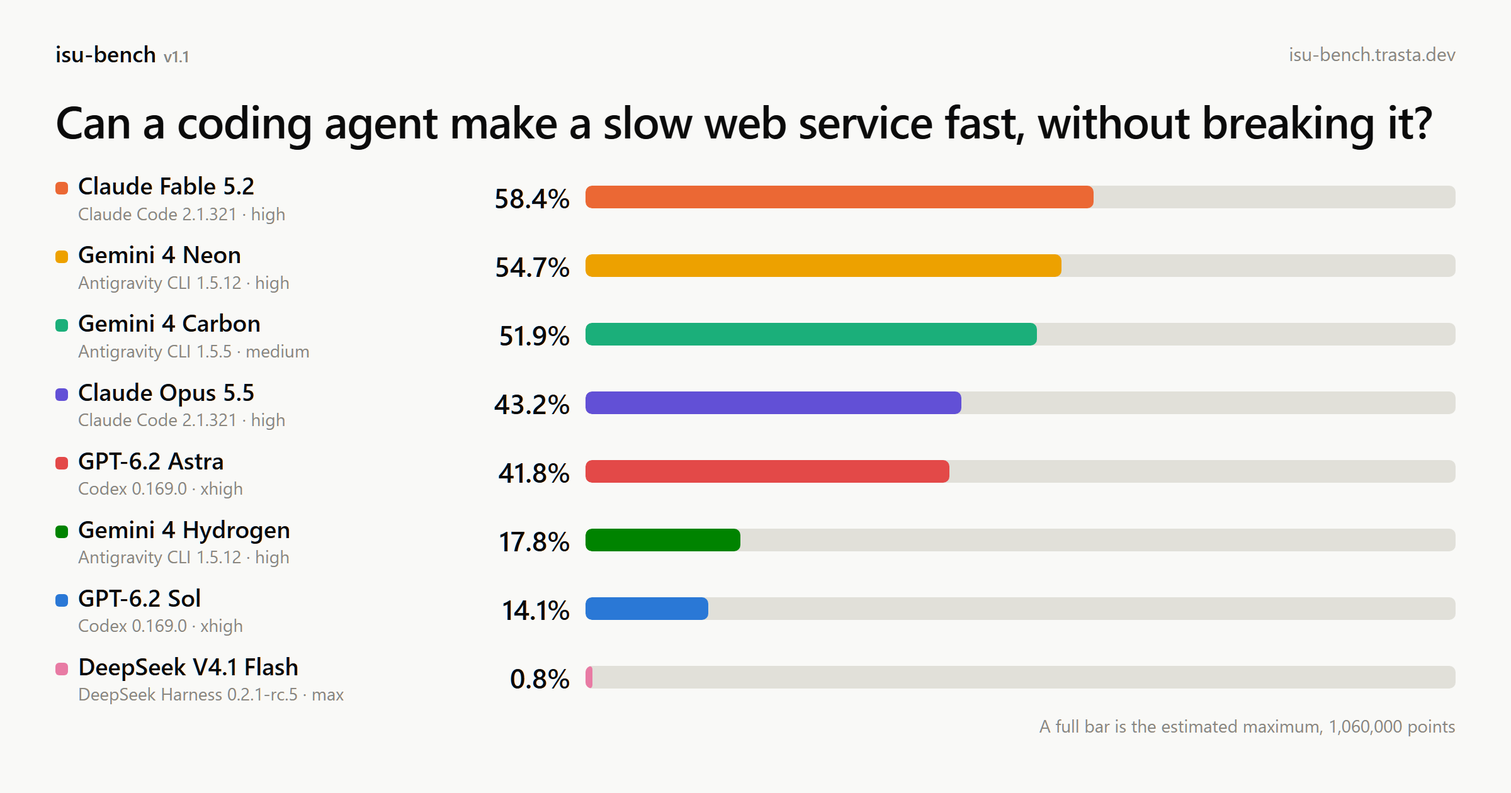
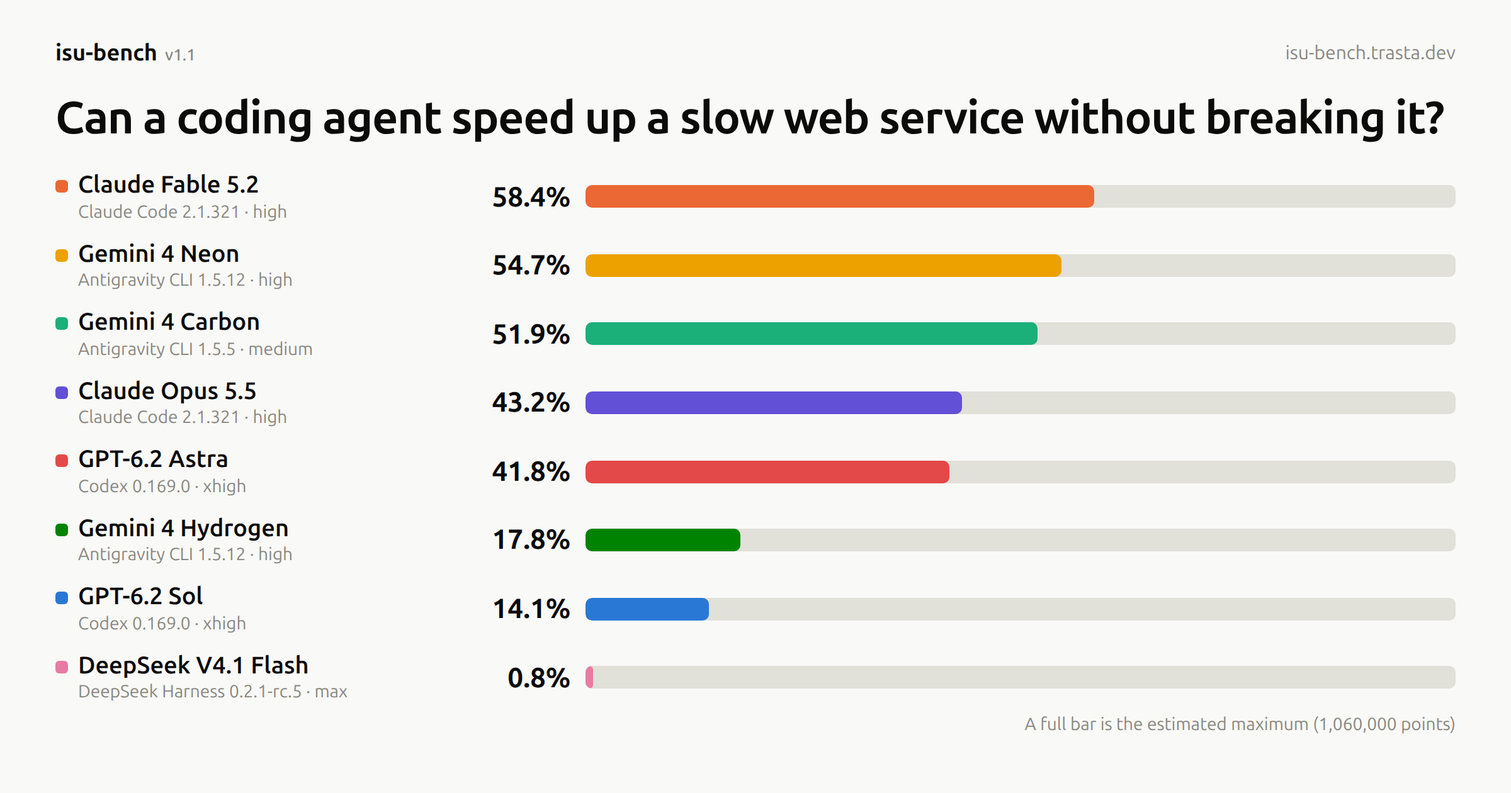
📝 docs: polish English phrasing in README and site

diff --git a/isubench/site.html b/isubench/site.html
@@ -4,9 +4,9 @@
 <meta charset="utf-8">
 <meta name="viewport" content="width=device-width, initial-scale=1">
 <title>isu-bench</title>
-<meta name="description" content="A benchmark for coding agents: make a slow web service on three servers as fast as possible without breaking it, with {RUNS} load tests.">
+<meta name="description" content="A benchmark for coding agents: optimize a slow web service across three servers without breaking it, within a budget of {RUNS} load tests.">
 <meta property="og:title" content="isu-bench">
-<meta property="og:description" content="Can a coding agent make a slow web service fast, without breaking it? One unseen service, three servers, {RUNS} load tests.">
+<meta property="og:description" content="Can a coding agent speed up a slow web service without breaking it? One unseen service, three servers, and {RUNS} load tests.">
 <meta property="og:type" content="website">
 <meta property="og:url" content="https://isu-bench.trasta.dev/">
 <meta property="og:image" content="https://isu-bench.trasta.dev/og.png">
@@ -145,7 +145,7 @@ footer p:nth-child(n+3) { font-size: 13px; color: var(--muted); }
 .figure .card { border: 0; padding: 0; margin: 0; background: none; }
 .figure :is(.top button, .top a, .card h2, .card .note, #chart, .details, .prose, footer) { display: none; }
 .figure .scroll { margin: 0; }
-.figure .scroll::after { content: "A full bar is the estimated maximum, {WINNER} points"; display: block; text-align: right; font-size: 14px; color: var(--muted); }
+.figure .scroll::after { content: "A full bar is the estimated maximum ({WINNER} points)"; display: block; text-align: right; font-size: 14px; color: var(--muted); }
 .figure:lang(ja) .scroll::after { content: "バーの右端が理論上の上限の見積もり（{WINNER}点）"; }
 .figure #board :is(tr:first-child, tr.off, td:first-child, td:nth-child(n+4)) { display: none; }
 .figure #board td { font-size: 19px; padding: 8px 0; border: 0; }
@@ -166,9 +166,9 @@ footer p:nth-child(n+3) { font-size: 13px; color: var(--muted); }
   </div>
 
   <header>
-    <h1 lang="en">Can a coding agent make a slow web service fast, without breaking it?</h1>
+    <h1 lang="en">Can a coding agent speed up a slow web service without breaking it?</h1>
     <h1 lang="ja">遅いWebサービスを、壊さずにどこまで速くできるか</h1>
-    <p class="lead" lang="en">isu-bench hands an agent a web service it has never seen, the three servers it runs on, and {RUNS} load tests. There is no time limit, no hint and no one to ask. The {RUNS}th load test is its score.</p>
+    <p class="lead" lang="en">isu-bench gives a coding agent an unfamiliar web service, the three servers it runs on, and a budget of {RUNS} load tests. There is no time limit, and the agent gets no hints or outside help. The {RUNS}th load test determines the final score.</p>
     <p class="lead" lang="ja">isu-benchは、コーディングエージェントに初めて見るWebサービスと、それが動く3台のサーバーを渡します。ベンチマークを実行できるのは{RUNS}回だけ。時間制限もヒントもなく、質問できる相手もいません。{RUNS}回目の点がそのままスコアになります。</p>
   </header>
 
@@ -176,7 +176,7 @@ footer p:nth-child(n+3) { font-size: 13px; color: var(--muted); }
     <h2 lang="en">Score over time</h2>
     <h2 lang="ja">経過時間とスコア</h2>
     <svg id="chart" class="plot" role="img"></svg>
-    <p class="note" lang="en">Each dot is one load test, placed at the time it started. The score is the share of the estimated maximum, {WINNER} points; the untouched service scores about {INITIAL}. A hollow dot on the baseline is a failed test, which scores 0.</p>
+    <p class="note" lang="en">Each dot represents one load test, plotted at its start time. Scores are a percentage of the estimated maximum ({WINNER} points); unmodified, the service scores about {INITIAL}. Hollow dots along the 0% line indicate failed runs (0 points).</p>
     <p class="note" lang="ja">点は1回のベンチマークで、開始した時刻の位置にあります。スコアは、理論上の上限の見積もり（{WINNER}点）に対する割合です。手を入れる前のサービスは約{INITIAL}点です。0%の線上にある白抜きの点はFAIL（0点）です。</p>
     <div class="scroll"><table id="board"></table></div>
     <p class="note" id="board-note"></p>
@@ -186,7 +186,7 @@ footer p:nth-child(n+3) { font-size: 13px; color: var(--muted); }
     <h2 lang="en">Detailed results</h2>
     <h2 lang="ja">詳細な結果</h2>
     <div class="card">
-      <h3 lang="en">Score and API cost</h3>
+      <h3 lang="en">Score vs. API cost</h3>
       <h3 lang="ja">スコアとAPI換算の費用</h3>
       <svg id="scatter" class="plot" role="img"></svg>
     </div>
@@ -200,11 +200,11 @@ footer p:nth-child(n+3) { font-size: 13px; color: var(--muted); }
     <h2 lang="en">The task</h2>
     <h2 lang="ja">課題</h2>
     <div lang="en">
-      <p>The agent takes the seat of a contestant in a performance tuning contest. It starts with:</p>
+      <p>The agent competes under the same conditions as a human contestant in a performance tuning contest. It starts with:</p>
       <ul>
-        <li>the specification of ISUMAIL, a newsletter delivery service, written in Japanese</li>
-        <li>a reference implementation in Go and PostgreSQL that works but is slow</li>
-        <li>root access to the three servers it runs on, which differ in CPU and memory</li>
+        <li>a Japanese specification for ISUMAIL, a newsletter delivery service</li>
+        <li>a working but slow reference implementation in Go and PostgreSQL</li>
+        <li>root access to the three servers running it, each with different CPU and memory</li>
       </ul>
     </div>
     <div lang="ja">
@@ -216,20 +216,20 @@ footer p:nth-child(n+3) { font-size: 13px; color: var(--muted); }
       </ul>
     </div>
     <div class="setup">
-      <div class="node"><b lang="en">Coding agent</b><b lang="ja">コーディングエージェント</b><span lang="en">Reads the spec and the code, measures, rewrites, deploys</span><span lang="ja">仕様とコードを読み、計測し、書き換え、配置する</span></div>
+      <div class="node"><b lang="en">Coding agent</b><b lang="ja">コーディングエージェント</b><span lang="en">Reads the spec and code, profiles, rewrites, and deploys</span><span lang="ja">仕様とコードを読み、計測し、書き換え、配置する</span></div>
       <div class="arrow">SSH</div>
       <div class="servers">
         <div class="node"><b>s1</b></div>
         <div class="node"><b>s2</b></div>
         <div class="node"><b>s3</b></div>
-        <span lang="en">each with different CPU and memory</span><span lang="ja">CPUもメモリも1台ずつ違う</span>
+        <span lang="en">different CPU and memory on each</span><span lang="ja">CPUもメモリも1台ずつ違う</span>
       </div>
       <div class="arrow back"><span lang="en">user traffic</span><span lang="ja">利用者の操作</span></div>
-      <div class="node"><b lang="en">Load test</b><b lang="ja">ベンチマーカー</b><span lang="en">70 seconds of publishers and readers, then a score or a FAIL</span><span lang="ja">発行者と読者の操作を70秒間送り、点かFAILを返す</span></div>
+      <div class="node"><b lang="en">Load test</b><b lang="ja">ベンチマーカー</b><span lang="en">70 seconds of simulated publisher and reader traffic; returns a score or FAIL</span><span lang="ja">発行者と読者の操作を70秒間送り、点かFAILを返す</span></div>
     </div>
     <div lang="en">
-      <p><strong>Anything may change</strong>: queries and indexes, caching, the architecture, the language, the database, which server does what. The only condition is that the service keeps behaving as the specification says.</p>
-      <p>A load test plays the users. Publishers schedule issues, which must reach every subscriber before a deadline; readers open, click, share and subscribe. The score counts the mail delivered in time and the activity that succeeded. Inconsistent data fails the test.</p>
+      <p><strong>The agent can change anything</strong>: queries, indexes, caching, architecture, language, database, or how work is split across the servers. The only requirement is that the service continues to follow the specification.</p>
+      <p>Each load test simulates real users. Publishers schedule newsletter issues that must reach every subscriber before a deadline, while readers open, click, share, and subscribe. The score is based on emails delivered on time and successful user actions. Any data inconsistency fails the test.</p>
     </div>
     <div lang="ja">
       <p><strong>何を変えても構いません</strong>。SQLやインデックス、キャッシュ、アーキテクチャ、言語、データベース、サーバーの役割分担まで自由です。条件は、仕様どおりに動き続けることだけです。</p>
@@ -242,10 +242,10 @@ footer p:nth-child(n+3) { font-size: 13px; color: var(--muted); }
     <h2 lang="ja">何を測っているか</h2>
     <table class="compare" lang="en">
       <tr><th></th><th>Test-based coding benchmarks</th><th>isu-bench</th></tr>
-      <tr><td>The work</td><td>Change the code in a repository</td><td>Run a live system: code, database and three servers</td></tr>
-      <tr><td>Done when</td><td>The tests pass</td><td>Never. Every improvement raises the score</td></tr>
-      <tr><td>Feedback</td><td>Run the tests as often as needed</td><td>{RUNS} load tests, and failing the last one scores 0</td></tr>
-      <tr><td>Prior exposure</td><td>Mostly public code</td><td>An unpublished problem, shipped only as machine images</td></tr>
+      <tr><td>Task</td><td>Edit code in a repository</td><td>Optimize a live system: code, database, and three servers</td></tr>
+      <tr><td>Done when</td><td>The tests pass</td><td>Open-ended: every improvement raises the score</td></tr>
+      <tr><td>Feedback</td><td>Run tests as often as needed</td><td>{RUNS} load tests total; failing the last one scores 0</td></tr>
+      <tr><td>Prior exposure</td><td>Mostly public code</td><td>Unpublished problem, distributed only as machine images</td></tr>
     </table>
     <table class="compare" lang="ja">
       <tr><th></th><th>テストで採点するベンチマーク</th><th>isu-bench</th></tr>
@@ -255,13 +255,13 @@ footer p:nth-child(n+3) { font-size: 13px; color: var(--muted); }
       <tr><td>既知かどうか</td><td>多くは公開されているコード</td><td>非公開の問題。マシンイメージでだけ配布</td></tr>
     </table>
     <div lang="en">
-      <p>Doing well takes several skills at once:</p>
+      <p>Doing well requires several skills at once:</p>
       <ul>
         <li>reading an unfamiliar specification and codebase</li>
-        <li>finding the bottleneck by measuring it</li>
-        <li>carrying a large rewrite through without breaking behavior</li>
-        <li>operating servers: deployment, recovery after a reboot, durable data</li>
-        <li>judgment under a budget: when to spend a load test, and when to stop taking risks</li>
+        <li>profiling to find bottlenecks</li>
+        <li>making large rewrites without breaking existing behavior</li>
+        <li>server operations: deployment, reboot recovery, and data durability</li>
+        <li>managing a limited budget: deciding when to run a load test and when to stop taking risks</li>
       </ul>
     </div>
     <div lang="ja">
@@ -280,8 +280,8 @@ footer p:nth-child(n+3) { font-size: 13px; color: var(--muted); }
     <h2 lang="en">Where the format comes from</h2>
     <h2 lang="ja">ISUCONについて</h2>
     <div lang="en">
-      <p>The format is borrowed from <a href="https://isucon.net/">ISUCON</a> (<i>Iikanji ni Speed Up Contest</i>, roughly "speed it up nicely"), a web performance tuning contest held in Japan since 2011. Teams of up to three engineers get the same deal: an unfamiliar slow service, a few servers and eight hours. The highest score at the end wins.</p>
-      <p>Past ISUCON problems and their solutions are public, so a model may have seen them solved. isu-bench is therefore scored on ISUMAIL, a problem in the same style written for it. Its source is not published and it ships only as machine images.</p>
+      <p>The format is modeled after <a href="https://isucon.net/">ISUCON</a> (<i>Iikanji ni Speed Up Contest</i>, roughly "speed it up nicely"), a web performance tuning contest held in Japan since 2011. Teams of up to three engineers face the same challenge: an unfamiliar slow service, a few servers, and eight hours. The highest score at the end wins.</p>
+      <p>Because past ISUCON problems and their solutions are public, models may have seen them during training. Instead, isu-bench scores agents on ISUMAIL, a new problem written specifically for this benchmark in the same style. Its source code is unpublished, and it is distributed only as machine images.</p>
     </div>
     <div lang="ja">
       <p>課題の形式は<a href="https://isucon.net/">ISUCON</a>にならっています。ISUCONは2011年から続くWebアプリケーション高速化コンテストで、最大3人のチームが、初めて見る遅いWebサービスと数台のサーバーを渡され、8時間でどこまで速くできるかを競います。</p>
@@ -293,12 +293,12 @@ footer p:nth-child(n+3) { font-size: 13px; color: var(--muted); }
     <h2 lang="en">Scoring and rules</h2>
     <h2 lang="ja">採点とルール</h2>
     <ul lang="en">
-      <li><strong>Score</strong>: the points of the {RUNS}th load test, divided by the estimated maximum of {WINNER}.</li>
-      <li>Every load test counts toward the {RUNS}, failed ones included.</li>
-      <li>After the last one the three servers are rebooted. If the service does not come back with the data written during that test, the score is 0.</li>
-      <li>No time limit. An agent that stops early is told to continue, up to three times.</li>
-      <li>No web access. Search tools are off and the network reaches only the model API, package registries and the servers.</li>
-      <li>One trial per configuration, in Go. A configuration is a model, the agent it runs in and a reasoning effort.</li>
+      <li><strong>Score</strong>: the points from the {RUNS}th load test, divided by the estimated maximum ({WINNER} points).</li>
+      <li>Every load test counts toward the {RUNS}-run limit, including failed runs.</li>
+      <li>After the final load test, all three servers are rebooted. If the service fails to come back up with the data written during that test intact, the score is 0.</li>
+      <li>No time limit. If an agent stops early, it is prompted to continue up to three times.</li>
+      <li>No web access. Search tools are disabled, and network access is restricted to the model API, package registries, and the target servers.</li>
+      <li>One trial per configuration, starting from the Go implementation. Each configuration is a combination of model, agent harness, and reasoning effort.</li>
     </ul>
     <ul lang="ja">
       <li><strong>スコア</strong>: {RUNS}回目のベンチマークの点を、理論上の上限の見積もり（{WINNER}点）で割った値。</li>
@@ -308,7 +308,7 @@ footer p:nth-child(n+3) { font-size: 13px; color: var(--muted); }
       <li>Webは使えません。検索ツールは無効で、通信先はモデルのAPI、パッケージレジストリ、サーバーだけです。</li>
       <li>1構成につき1試行、言語はGo。構成は、モデル、それを動かすエージェント、推論の強さの組み合わせです。</li>
     </ul>
-    <p lang="en">The <a href="https://github.com/trasta298/isu-bench/blob/main/REQUIREMENTS.md">full rules</a>, the <a href="https://github.com/trasta298/isu-bench/blob/main/prompt.md">exact prompt</a> and the harness are in the <a href="https://github.com/trasta298/isu-bench">repository</a>.</p>
+    <p lang="en">The <a href="https://github.com/trasta298/isu-bench/blob/main/REQUIREMENTS.md">full rules</a>, the <a href="https://github.com/trasta298/isu-bench/blob/main/prompt.md">exact prompt</a>, and the harness are available in the <a href="https://github.com/trasta298/isu-bench">repository</a>.</p>
     <p lang="ja"><a href="https://github.com/trasta298/isu-bench/blob/main/REQUIREMENTS.md">ルールの全体</a>、<a href="https://github.com/trasta298/isu-bench/blob/main/prompt.md">プロンプトの原文</a>、ハーネスは<a href="https://github.com/trasta298/isu-bench/blob/main/README.ja.md">リポジトリ</a>にあります。</p>
   </section>
 
@@ -316,9 +316,9 @@ footer p:nth-child(n+3) { font-size: 13px; color: var(--muted); }
     <h2 lang="en">Caveats</h2>
     <h2 lang="ja">注意点</h2>
     <ul lang="en">
-      <li>Each configuration ran once, so the spread between trials is not measured. The untouched service alone varies by about 5% from test to test. Small gaps mean little.</li>
-      <li>Each model runs in its vendor's own agent, so a result belongs to the pair, not to the model alone.</li>
-      <li>The maximum is an estimate of the problem's theoretical limit. Its derivation is withheld together with the source, to keep the problem out of training data.</li>
+      <li>Each configuration was run once, so run-to-run variance is not measured. Even the unmodified service varies by about 5% from run to run. Small score differences are not meaningful.</li>
+      <li>Each model runs in its provider's own agent harness, so results reflect the model-and-agent pair rather than the model alone.</li>
+      <li>The 100% mark is an estimate of the problem's theoretical limit. Like the source code, its derivation is kept private to keep the problem out of training data.</li>
     </ul>
     <ul lang="ja">
       <li>各構成の試行は1回だけで、試行間のばらつきは測っていません。手を入れる前のサービスでも、点は回ごとに5%ほど変わります。小さな差に意味はありません。</li>
@@ -328,9 +328,9 @@ footer p:nth-child(n+3) { font-size: 13px; color: var(--muted); }
   </section>
 
   <footer>
-    <p lang="en">Want another model or agent added? Ask <a href="https://x.com/trasta">@trasta</a> on X. Each configuration ran once because of cost, and <a href="https://github.com/sponsors/trasta298">sponsorship on GitHub</a> goes to more trials and more models.</p>
+    <p lang="en">Want another model or agent added? Reach out to <a href="https://x.com/trasta">@trasta</a> on X. Each configuration was run once due to cost, and <a href="https://github.com/sponsors/trasta298">GitHub Sponsors</a> funding goes toward additional trials and new models.</p>
     <p lang="ja">追加してほしいモデルやエージェントがあれば、Xの<a href="https://x.com/trasta">@trasta</a>まで連絡してください。各構成の試行が1回なのは費用の都合で、<a href="https://github.com/sponsors/trasta298">GitHub Sponsors</a>での支援は試行回数とモデルの追加に充てます。</p>
-    <p lang="en">ISUCON is a trademark or registered trademark of SAKURA internet Inc. (<a href="https://isucon.net">isucon.net</a>) isu-bench is an independent project. It is not run, sponsored or endorsed by the ISUCON organizers or SAKURA internet Inc.</p>
+    <p lang="en">ISUCON is a trademark or registered trademark of SAKURA internet Inc. (<a href="https://isucon.net">isucon.net</a>). isu-bench is an independent project. It is not run, sponsored, or endorsed by the ISUCON organizers or SAKURA internet Inc.</p>
     <p lang="ja">「ISUCON」は、さくらインターネット株式会社の商標または登録商標です。（<a href="https://isucon.net">isucon.net</a>）isu-benchは独立した非公式のプロジェクトです。ISUCONの運営やさくらインターネット株式会社が主催、後援、公認するものではありません。</p>
   </footer>
 </main>
@@ -354,24 +354,24 @@ const color = c => `var(--s${DATA.colors[c]})`;
 const T = {
   en: {
     other: ['日本語', 'ja'],
-    chartLabel: `Score of each load test against the time since the agent started, for ${P.title}`,
-    elapsed: 'Time since the agent started (h:mm)',
+    chartLabel: `Load test scores over elapsed time for ${P.title}`,
+    elapsed: 'Elapsed time (h:mm)',
     max: 'estimated maximum',
     dur: (h, m) => h ? `${h} h ${m} min` : `${m} min`,
     test: (i, n) => `Load test ${i} of ${n}`,
     startedAt: 'Started at',
     score: 'Score',
     points: 'Points',
-    calls: 'Tool calls before it',
-    head: ['', 'Model', 'Score', 'Time', 'API cost', 'Failed tests'],
-    scatterLabel: `Final score against the API cost of the trial, for ${P.title}`,
-    costAxis: 'API cost of the trial (USD, log scale)',
+    calls: 'Tool calls before this run',
+    head: ['', 'Model', 'Score', 'Time', 'API cost', 'Failed runs'],
+    scatterLabel: `Final score vs. API cost for ${P.title}`,
+    costAxis: 'Trial API cost (USD, log scale)',
     detailHead: ['Model', 'Final points', 'Best points'],
     tokens: 'Tokens',
-    detailNote: ["Tokens come from each agent's transcripts and are not strictly comparable across providers. Input is uncached input."],
-    boardNote: ['Time is how long the agent worked.',
-                'API cost prices each trial\'s tokens at each provider\'s list price on 2026-11-03, Anthropic\'s on 2026-11-10, Google\'s on 2026-11-11 (Gemini 4 Hydrogen\'s on 2026-11-19, Gemini 4 Neon\'s on 2026-11-20) and GPT-6.2\'s on 2026-11-18 (DeepSeek at its peak rate, off-peak is half; Gemini 4 Carbon at its introductory price, which doubles on 2026-12-01). Hover over a cost for the prices.'],
-    costHead: 'List price per 1M tokens × tokens',
+    detailNote: ['Token counts come from each agent\'s transcripts and are not strictly comparable across providers. "Input" excludes cached tokens.'],
+    boardNote: ['Time is total active agent working time.',
+                'API cost is calculated from each trial\'s token usage using provider list prices (checked 2026-11-03; Anthropic 2026-11-10; Google 2026-11-11, with Gemini 4 Hydrogen on 2026-11-19 and Gemini 4 Neon on 2026-11-20; GPT-6.2 2026-11-18). DeepSeek uses its peak rate (off-peak is half), and Gemini 4 Carbon uses its introductory rate (which doubles on 2026-12-01). Hover over a cost to see the per-token breakdown.'],
+    costHead: 'List price per 1M tokens × token count',
     costKinds: [['input', 'Input'], ['output', 'Output'], ['cache_read', 'Cache read'], ['cache_write', 'Cache write']],
   },
   ja: {

diff --git a/README.md b/README.md
@@ -2,15 +2,15 @@
 
 English | [日本語](README.ja.md)
 
-isu-bench hands a coding agent a web service it has never seen, the three servers it runs on, and 11 load tests. There is no time limit, no hint and no one to ask. The 11th load test is its score.
+isu-bench gives a coding agent an unfamiliar web service, the three servers it runs on, and a budget of 11 load tests. There is no time limit, and the agent gets no hints or outside help. The 11th load test determines the final score.
 
-The task in detail, the charts and every number are on **[isu-bench.trasta.dev](https://isu-bench.trasta.dev/)**.
+See **[isu-bench.trasta.dev](https://isu-bench.trasta.dev/)** for charts, full numbers, and task details.
 
 ![isu-bench v1.1 results](docs/isu-bench-v1.1.png)
 
 ## Results
 
-isu-bench v1.1. Each configuration ran once, so small gaps mean little. The score is the 11th load test as a share of the estimated maximum, 1,060,000 points.
+Results for isu-bench v1.1. Each configuration was run once, so small differences are not meaningful. Scores are the 11th load test expressed as a percentage of the estimated maximum (1,060,000 points).
 
 | Model | Agent | Effort | Score | Time | API cost |
 |---|---|---|---:|---:|---:|
@@ -25,76 +25,76 @@ isu-bench v1.1. Each configuration ran once, so small gaps mean little. The scor
 | GPT-6 Astra | Codex 0.166.0 | xhigh | **9.7%** | 46 min | $13.72 |
 | DeepSeek V4.1 Flash | DeepSeek Harness 0.2.1-rc.5 | max | **0.8%** | 48 min | $0.42 |
 
-- The untouched service scores about 1,744 points (0.2%), and its score varies by about 5% from run to run.
-- API cost prices each trial's tokens at the provider's list price in November 2026 ([isubench/prices.py](isubench/prices.py)). DeepSeek is at its peak rate, and Gemini 4 Carbon at its introductory price, which doubles on 2026-12-01.
+- Unmodified, the service scores about 1,744 points (0.2%), with roughly 5% run-to-run variance.
+- API cost is calculated from each trial's token usage using the providers' November 2026 list prices ([isubench/prices.py](isubench/prices.py)). DeepSeek is priced at its peak rate, and Gemini 4 Carbon at its introductory rate (which doubles on 2026-12-01).
 
 ## How it works
 
-- The agent gets a specification, a slow reference implementation in Go and root on three servers. It may change anything, as long as the service keeps behaving as specified.
-- `bench` runs a load test, at most 11 times, failed runs included. The 11th is the score, and a FAIL scores 0.
-- The servers are then rebooted. If the service does not come back with its data, the score is 0.
+- The agent receives a specification, a slow Go reference implementation, and root access to three servers. It can change anything as long as the service continues to follow the specification.
+- `bench` runs a load test, up to 11 times total (including failed runs). The 11th run sets the final score, and a FAIL scores 0.
+- After the final run, the servers are rebooted. If the service fails to come back up with its data intact, the score is 0.
 - There is no time limit and no web access.
 
-The format follows [ISUCON](https://isucon.net/), a web performance tuning contest held in Japan since 2011. The problem, ISUMAIL, was written for isu-bench, and its source is not published, so that no model has seen it solved. It ships only as machine images, and this repository holds no more of a trial than its `result.json`.
+The format is modeled after [ISUCON](https://isucon.net/), a web performance tuning contest held in Japan since 2011. The problem, ISUMAIL, was written specifically for isu-bench. Its source code is unpublished so models cannot have seen existing solutions: it is distributed only as machine images, and this repository only stores each trial's `result.json`.
 
-The full rules are in [REQUIREMENTS.md](REQUIREMENTS.md) and the exact prompt in [prompt.md](prompt.md).
+The full rules are in [REQUIREMENTS.md](REQUIREMENTS.md), and the exact prompt is in [prompt.md](prompt.md).
 
 ## What it measures
 
 | | Test-based coding benchmarks | isu-bench |
 |---|---|---|
-| The work | Change the code in a repository | Run a live system: code, database and three servers |
-| Done when | The tests pass | Never. Every improvement raises the score |
-| Feedback | Run the tests as often as needed | 11 load tests, and failing the last one scores 0 |
-| Prior exposure | Mostly public code | An unpublished problem, shipped only as machine images |
+| Task | Edit code in a repository | Optimize a live system: code, database, and three servers |
+| Done when | The tests pass | Open-ended: every improvement raises the score |
+| Feedback | Run tests as often as needed | 11 load tests total; failing the last one scores 0 |
+| Prior exposure | Mostly public code | Unpublished problem, distributed only as machine images |
 
-Doing well takes several skills at once:
+Doing well requires several skills at once:
 
 - reading an unfamiliar specification and codebase
-- finding the bottleneck by measuring it
-- carrying a large rewrite through without breaking behavior
-- operating servers: deployment, recovery after a reboot, durable data
-- judgment under a budget: when to spend a load test, and when to stop taking risks
+- profiling to find bottlenecks
+- making large rewrites without breaking existing behavior
+- server operations: deployment, reboot recovery, and data durability
+- managing a limited budget: deciding when to run a load test and when to stop taking risks
 
 ## Running
 
-Requirements: Linux with Docker, the AWS CLI v2 with credentials for ap-northeast-1 (13 vCPU of on-demand C instances per trial), Python 3.10+, git and ssh. A trial costs about $0.64 per hour of EC2, plus model usage.
+Requirements: Linux with Docker, AWS CLI v2 with credentials for `ap-northeast-1` (13 vCPUs of on-demand C instances per trial), Python 3.10+, git, and ssh. Each trial costs about $0.64/hour in EC2 charges, plus model usage.
 
 ```sh
 export ANTHROPIC_API_KEY=...   # or CLAUDE_CODE_OAUTH_TOKEN / OPENAI_API_KEY / DEEPSEEK_API_KEY / OLLAMA_API_KEY / GEMINI_API_KEY
 python3 -m isubench run --problem isumail --agent claude-code --model claude-opus-5-5 --effort high
-python3 -m isubench table        # every result in results/
+python3 -m isubench table        # list all results in results/
 python3 -m isubench teardown <run_id>
 ```
 
-A trial creates its own VPC and instances and deletes them when it ends. If the harness dies, the instances terminate themselves after 48 hours, and `teardown` deletes them right away.
+Each trial provisions its own VPC and instances, then cleans them up when it finishes. If the harness crashes, the instances auto-terminate after 48 hours, or you can remove them immediately with `teardown`.
 
 | Agent | `--agent` | Notes |
 |---|---|---|
 | Claude Code | `claude-code` | |
-| Codex | `codex` | Can use a ChatGPT login made for isu-bench only: `docker run --rm -it -v ~/.config/isu-bench/codex:/home/agent/.codex isu-bench-agent:v1 codex login --device-auth` |
-| Antigravity CLI | `agy` | Takes a Gemini API model by name (`--model gemini-4-carbon`) and `--effort low`, `medium` or `high`. Its web search runs inside the model API, past the proxy, so a hook denies it |
-| DeepSeek Harness | `dsh` | With `OLLAMA_API_KEY` it runs against Ollama Cloud. Its command timeout is raised from 60 seconds to 10 minutes, because one load test takes about 70 seconds |
+| Codex | `codex` | Can also use a dedicated ChatGPT login for isu-bench: `docker run --rm -it -v ~/.config/isu-bench/codex:/home/agent/.codex isu-bench-agent:v1 codex login --device-auth` |
+| Antigravity CLI | `agy` | Takes a Gemini API model name (`--model gemini-4-carbon`) and `--effort` (`low`, `medium`, or `high`). Because its web search runs inside the model API and bypasses the proxy, it is blocked via a hook. |
+| DeepSeek Harness | `dsh` | Runs against Ollama Cloud when `OLLAMA_API_KEY` is set. The command timeout is raised from 60 seconds to 10 minutes since a single load test takes about 70 seconds. |
 
-- `agy` can also use a Google sign-in made for isu-bench only, used when `GEMINI_API_KEY` is unset: run `docker run --rm -it -v ~/.config/isu-bench/agy:/home/agent/.gemini/antigravity-cli isu-bench-agent:v1 agy`, choose Google OAuth and paste the code from the sign-in page. Its first-run screen checks the box that lets Google collect your interactions data; uncheck it. Signed in, `agy` takes the models that `agy models` lists for the account, such as `--model gemini-4-neon --effort high`.
+- When `GEMINI_API_KEY` is unset, `agy` can also use a dedicated Google sign-in for isu-bench. Run `docker run --rm -it -v ~/.config/isu-bench/agy:/home/agent/.gemini/antigravity-cli isu-bench-agent:v1 agy`, select Google OAuth, and paste the code from the sign-in page. On the first-run screen, uncheck the option that lets Google collect interaction data. Once signed in, you can pass any model listed by `agy models` for that account (for example, `--model gemini-4-neon --effort high`).
 
 ## Other problems and versions
 
-- ISUCON14 and ISUCON13 also run in the harness (`--problem isucon14`, `--problem isucon13`). They are not scored, because their public solutions predate the models' training data. Results from v1 are in `results/`.
-- v1 gave 15 load tests and used an earlier ISUMAIL benchmarker, so its scores cannot be compared with v1.1.
+- ISUCON14 and ISUCON13 also run in this harness (`--problem isucon14`, `--problem isucon13`). They are not scored because their public solutions predate the models' training cutoffs. Results from v1 are in `results/`.
+- v1 allowed 15 load tests and used an earlier version of the ISUMAIL benchmarker, so v1 scores cannot be compared with v1.1.
 
 ## Credits
 
-- [ISUCON2026](https://isucon.net/), whose problem ISUMAIL's design draws on heavily.
-- [isucon/isucon14](https://github.com/isucon/isucon14) for the problem, reference implementations and benchmarker.
+- [ISUCON2026](https://isucon.net/), whose problem heavily inspired ISUMAIL's design.
+- [isucon/isucon14](https://github.com/isucon/isucon14) for the problem, reference implementations, and benchmarker.
 - [matsuu/aws-isucon](https://github.com/matsuu/aws-isucon) for the AMI.
 - [kyosu-1/isuenv](https://github.com/kyosu-1/isuenv) for the TTL technique.
 
 ## Trademark
 
-ISUCON is a trademark or registered trademark of SAKURA internet Inc. ([isucon.net](https://isucon.net))
+ISUCON is a trademark or registered trademark of SAKURA internet Inc. ([isucon.net](https://isucon.net)).
 
-isu-bench is an independent project. It is not run, sponsored or endorsed by the ISUCON organizers or SAKURA internet Inc.
+isu-bench is an independent project. It is not run, sponsored, or endorsed by the ISUCON organizers or SAKURA internet Inc.
 
 ## License
 
